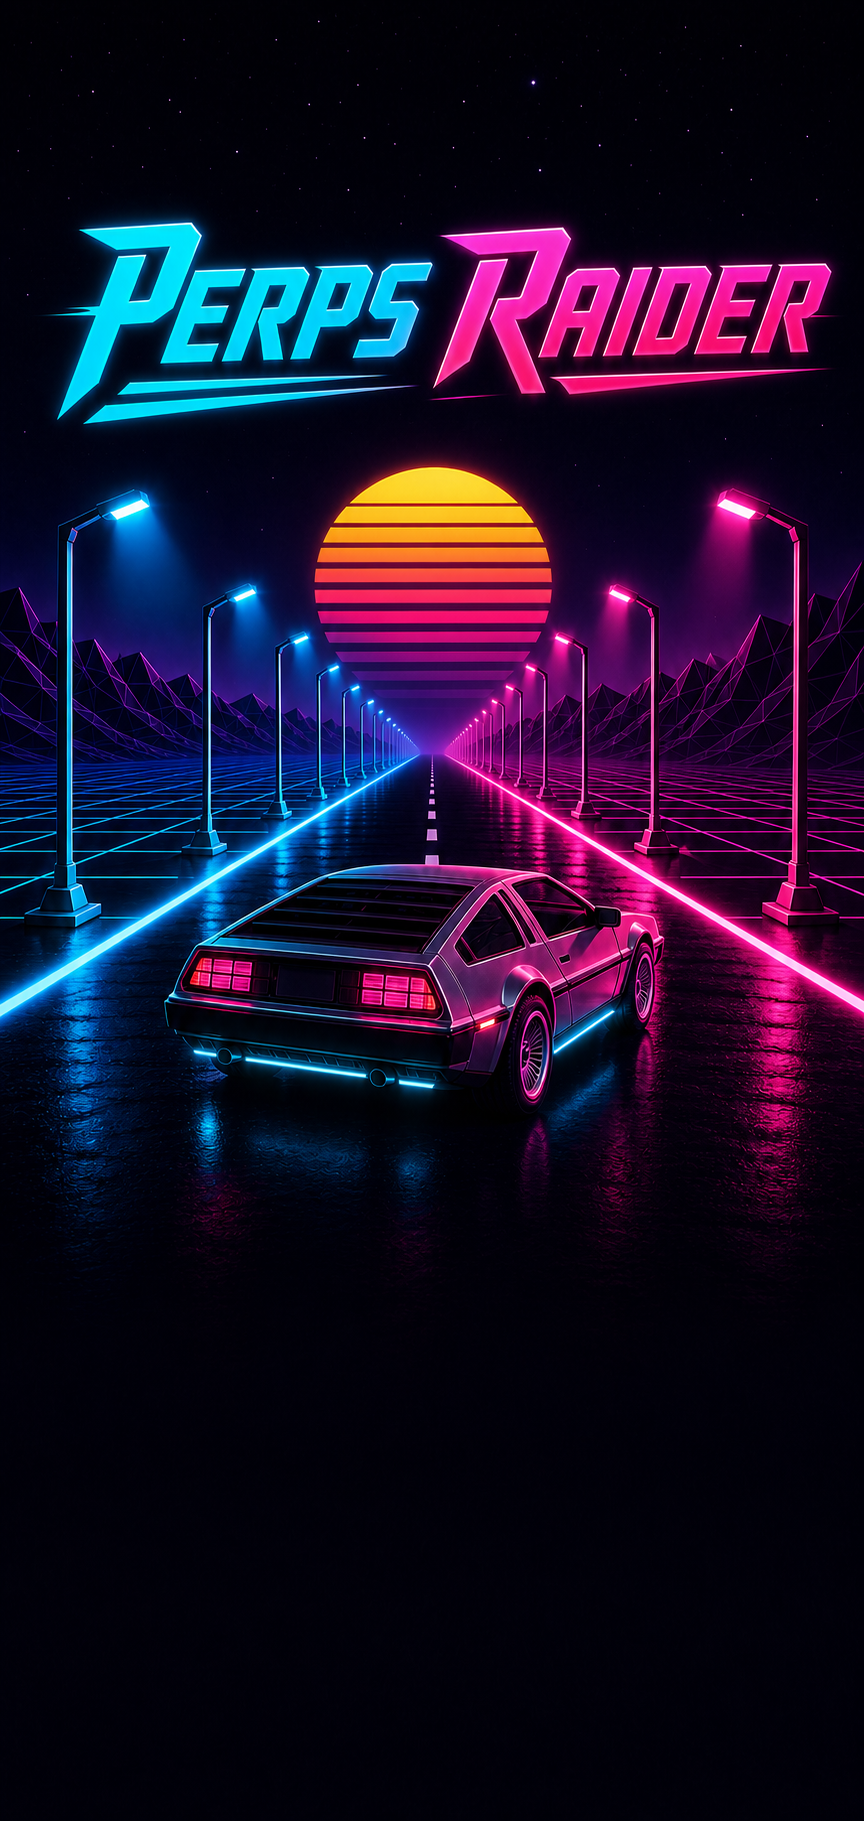
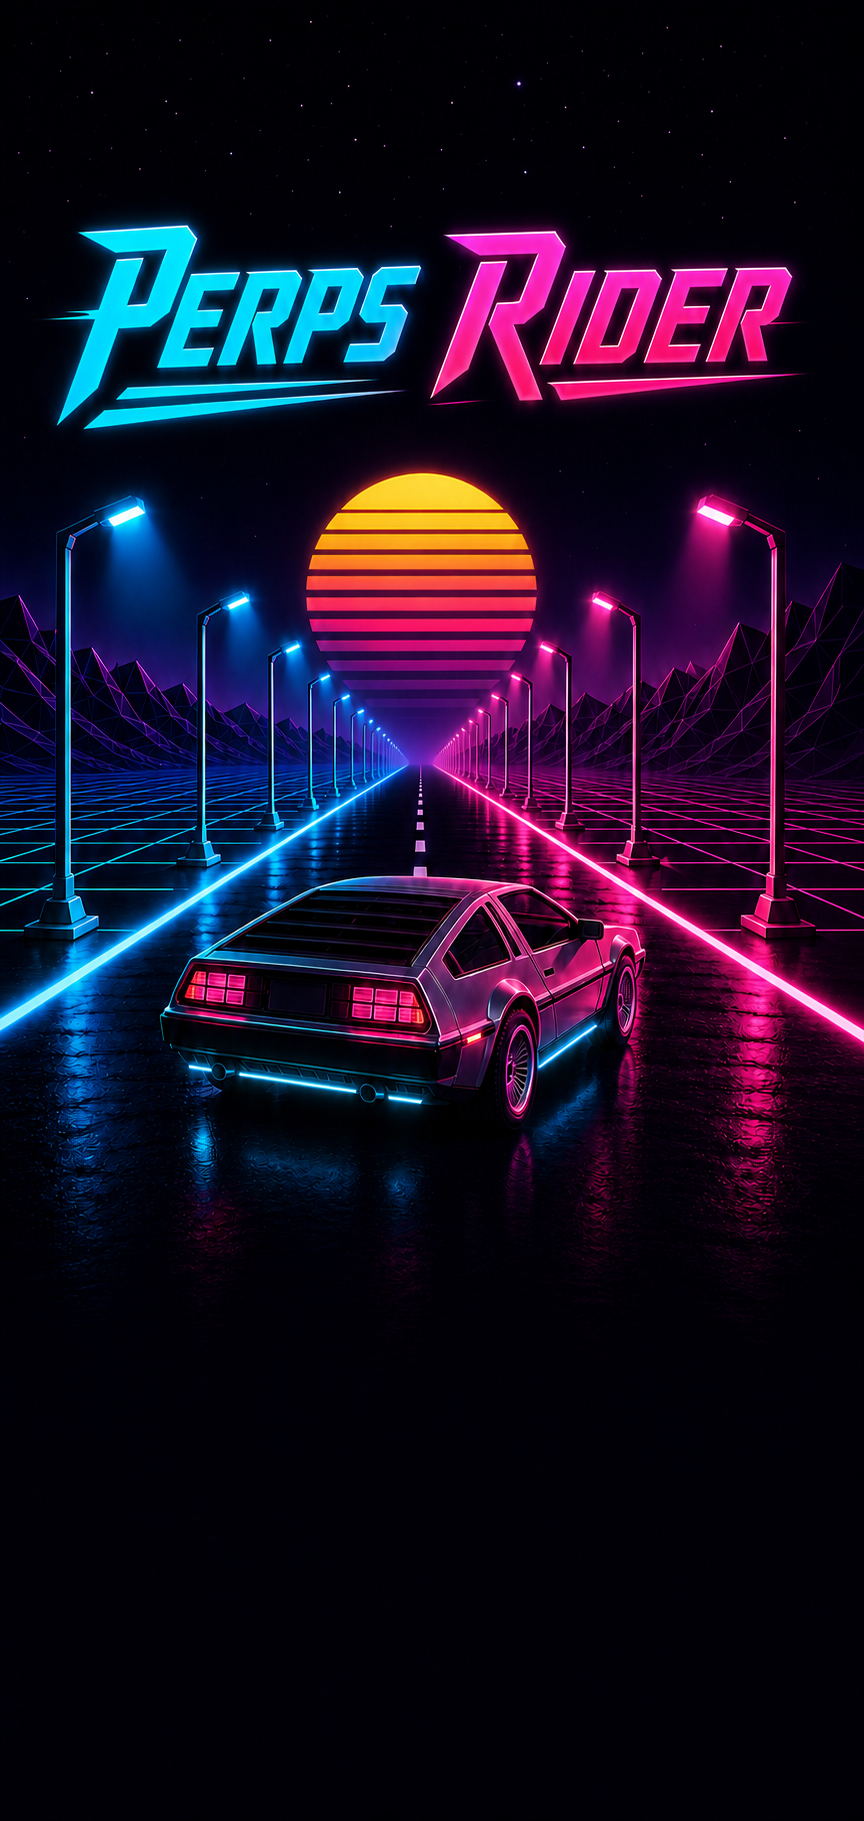
chore: rename game to Perps Rider

Changed region(s): [[0.0, 0.123, 1.0, 0.6766]]

diff --git a/redline3d/src/main.ts b/redline3d/src/main.ts
@@ -114,7 +114,7 @@ const ctx = createScene(canvas);
 // CPUs (Seeker: 8GB/8-core but Mali-G615); ?perf=low|high overrides for on-device tuning
 const gpu = gpuRendererString(ctx.renderer.getContext());
 const quality = detectQuality({ gpuRenderer: gpu, search: location.search });
-console.log(`Perps Raider quality: ${quality.tier} · bloom ${quality.bloom ? "×" + quality.bloomScale : "off"} · msaa ${quality.postSamples}× · dpr≤${quality.pixelRatioCap} · ${quality.frameCapFps ? quality.frameCapFps + "fps cap" : "uncapped"} · ${quality.detail}${gpu ? ` (${gpu})` : ""}`);
+console.log(`Perps Rider quality: ${quality.tier} · bloom ${quality.bloom ? "×" + quality.bloomScale : "off"} · msaa ${quality.postSamples}× · dpr≤${quality.pixelRatioCap} · ${quality.frameCapFps ? quality.frameCapFps + "fps cap" : "uncapped"} · ${quality.detail}${gpu ? ` (${gpu})` : ""}`);
 ctx.renderer.setPixelRatio(Math.min(quality.pixelRatioCap, window.devicePixelRatio || 1));
 const post = quality.bloom ? createPost(ctx.renderer, ctx.scene, ctx.camera, quality.bloomScale, quality.postSamples) : null;
 // Keep the renderer + bloom composer matched to the live viewport. Relying on the window
@@ -2213,7 +2213,7 @@ function showIdentityGate() {
           } catch { /* Highway will require a confirmed Railway save before entry. */ }
         }
         identity = {
-          name: accountDriverName ?? name ?? "raider_" + session.address().slice(-4).toLowerCase(),
+          name: accountDriverName ?? name ?? "rider_" + session.address().slice(-4).toLowerCase(),
           mode: "privy" as const,
         };
         saveIdentity(identity);
@@ -2281,7 +2281,7 @@ if (identity?.mode === "privy") {
     });
   }).catch(() => {});
 }
-console.log("Perps Raider render up");
+console.log("Perps Rider render up");
 
 // DEV-only hooks so browser verification can jump between modes without driving
 // across the lobby at Preview's throttled frame rate. Stripped from prod builds.

diff --git a/redline3d/src/ui/carpicker.ts b/redline3d/src/ui/carpicker.ts
@@ -520,7 +520,7 @@ export function createCarPicker(
         `<div class="gtitle"><span class="gtitle-name" style="color:var(--mut)">${displayName}</span><span class="grarity">${gems(0)}</span></div>` +
         `<div class="gcard-win"><div class="gcard-lock">${icon("lock", 30)}<span>LOCKED</span></div></div>` +
         `<div class="gcard-ab"><span class="gcard-ab-ic">${icon("lock")}</span><span class="gcard-ab-tx"><span class="gcard-ab-name" style="color:var(--mut)">Locked</span><span class="gcard-ab-desc">unlock to reveal</span></span></div>` +
-        `<div class="gfoot"><span class="gfoot-brand" style="color:var(--mut);text-shadow:none">PERPS RAIDER</span><span class="gfoot-no">${series}</span></div>`;
+        `<div class="gfoot"><span class="gfoot-brand" style="color:var(--mut);text-shadow:none">PERPS RIDER</span><span class="gfoot-no">${series}</span></div>`;
     } else {
       const p = c.power;
       const ability = p
@@ -531,7 +531,7 @@ export function createCarPicker(
         `<div class="gtitle"><span class="gtitle-name">${displayName}</span><span class="grarity">${gems(rarity)}</span></div>` +
         `<div class="gcard-win"><img class="gcard-art" alt="${displayName}"><div class="gcard-ld"><i></i></div></div>` +
         `<div class="gcard-ab">${ability}</div>` +
-        `<div class="gfoot"><span class="gfoot-brand">PERPS RAIDER</span><span class="gfoot-no">${series}</span></div>`;
+        `<div class="gfoot"><span class="gfoot-brand">PERPS RIDER</span><span class="gfoot-no">${series}</span></div>`;
       const holo = card.querySelector(".gcard-holo") as HTMLElement;
       card.addEventListener("pointermove", (e) => {
         const r = card.getBoundingClientRect();

diff --git a/redline3d/src/ui/identity.ts b/redline3d/src/ui/identity.ts
@@ -65,7 +65,7 @@ export function createIdentityGate(
   card.innerHTML =
     (opts.onDismiss ? `<button id="idclose" type="button" aria-label="Close"
       style="position:absolute;top:10px;right:10px;width:32px;height:32px;padding:0;display:grid;place-items:center;border-radius:8px;border:1px solid var(--line);background:rgba(12,10,26,.74);color:var(--mut);cursor:pointer;font-size:14px">✕</button>` : "") +
-    `<div class="num" style="font-size:26px;letter-spacing:.14em;color:var(--cyan);text-shadow:0 0 18px rgba(39,231,255,.5)">PERPS RAIDER</div>` +
+    `<div class="num" style="font-size:26px;letter-spacing:.14em;color:var(--cyan);text-shadow:0 0 18px rgba(39,231,255,.5)">PERPS RIDER</div>` +
     `<div class="lbl" style="letter-spacing:.08em;color:#aeb8dc">pick your driver name</div>` +
     `<input id="idname" maxlength="16" autocomplete="off" spellcheck="false" placeholder="e.g. liq_dodger"
       style="width:100%;box-sizing:border-box;padding:13px 14px;border-radius:11px;border:1px solid var(--line);background:rgba(10,8,22,.85);color:#eef1ff;font:700 17px 'Chakra Petch',ui-monospace,monospace;letter-spacing:.06em;text-align:center;outline:none"/>` +

diff --git a/redline3d/src/ui/access-wall.ts b/redline3d/src/ui/access-wall.ts
@@ -49,7 +49,7 @@ export function createAccessWall(
   card.className = "panel";
   card.style.cssText = "position:relative;width:min(400px,94vw);padding:26px 22px 22px;border-radius:16px;text-align:center;display:flex;flex-direction:column;gap:15px";
   card.innerHTML =
-    `<div class="num" style="font-size:28px;letter-spacing:.14em;color:var(--cyan);text-shadow:0 0 18px rgba(39,231,255,.5)">PERPS RAIDER</div>` +
+    `<div class="num" style="font-size:28px;letter-spacing:.14em;color:var(--cyan);text-shadow:0 0 18px rgba(39,231,255,.5)">PERPS RIDER</div>` +
     `<div class="lbl" style="letter-spacing:.08em;color:#aeb8dc">enter your access code to play</div>` +
     `<input id="awcode" maxlength="24" autocomplete="off" spellcheck="false" placeholder="access code"
       style="width:100%;box-sizing:border-box;padding:14px 15px;border-radius:11px;border:1px solid var(--line);background:rgba(10,8,22,.85);color:#eef1ff;font:700 18px 'Chakra Petch',ui-monospace,monospace;letter-spacing:.12em;text-align:center;outline:none"/>` +

diff --git a/redline3d/index.html b/redline3d/index.html
@@ -3,14 +3,14 @@
   <head>
     <meta charset="utf-8" />
     <meta name="viewport" content="width=device-width,initial-scale=1,maximum-scale=1,user-scalable=no,viewport-fit=cover" />
-    <title>Perps Raider</title>
+    <title>Perps Rider</title>
     <!-- installable PWA (Add to Home Screen / Install app on the Seeker) -->
     <link rel="manifest" href="/manifest.webmanifest" />
     <meta name="theme-color" content="#05030d" />
     <meta name="mobile-web-app-capable" content="yes" />
     <meta name="apple-mobile-web-app-capable" content="yes" />
     <meta name="apple-mobile-web-app-status-bar-style" content="black-translucent" />
-    <meta name="apple-mobile-web-app-title" content="Perps Raider" />
+    <meta name="apple-mobile-web-app-title" content="Perps Rider" />
     <link rel="apple-touch-icon" href="/icon-192.png" />
     <link rel="preconnect" href="https://fonts.googleapis.com" />
     <link rel="preconnect" href="https://fonts.gstatic.com" crossorigin />

diff --git a/redline3d/onchain.html b/redline3d/onchain.html
@@ -3,7 +3,7 @@
   <head>
     <meta charset="UTF-8" />
     <meta name="viewport" content="width=device-width, initial-scale=1.0" />
-    <title>Perps Raider — on-chain (devnet)</title>
+    <title>Perps Rider — on-chain (devnet)</title>
     <style>
       body { font-family: ui-monospace, monospace; background: #0a0a12; color: #e6e6f0; margin: 0; padding: 16px; }
       .row { margin: 8px 0; } button { font: inherit; padding: 8px 14px; margin-right: 8px; cursor: pointer; }
@@ -12,7 +12,7 @@
     </style>
   </head>
   <body>
-    <h2>Perps Raider — on-chain round (devnet) <span class="dim">BTC</span></h2>
+    <h2>Perps Rider — on-chain round (devnet) <span class="dim">BTC</span></h2>
     <div class="row dim">wallet: <code id="addr">…</code> · play balance: <code id="bal">…</code> USDC</div>
     <div class="row">
       dir <select id="dir"><option value="1">LONG</option><option value="-1">SHORT</option></select>

diff --git a/redline3d/src/ui/access-wall.test.ts b/redline3d/src/ui/access-wall.test.ts
@@ -26,7 +26,7 @@ const message = (root: HTMLElement) => root.querySelector("#awmsg") as HTMLEleme
 describe("access wall — only a code field, nothing else", () => {
   test("shows the title, one code field and UNLOCK — never guest / sign-in / name", () => {
     const { wall } = mount("invalid");
-    expect(wall.el.textContent).toContain("PERPS RAIDER");
+    expect(wall.el.textContent).toContain("PERPS RIDER");
     expect(codeField(wall.el)).toBeTruthy();
     expect(unlockBtn(wall.el).textContent).toContain("UNLOCK");
     // none of the identity gate's doors may leak onto the wall

diff --git a/server/src/auth/wallet-binding.test.ts b/server/src/auth/wallet-binding.test.ts
@@ -10,7 +10,7 @@ describe("createWalletBinding", () => {
     const wallet = bs58.encode(publicKey);
     const binding = createWalletBinding({ secret: "b".repeat(32), now: () => 1000 });
     const challenge = binding.createChallenge({ userId: "user-1", wallet });
-    expect(challenge.message).toMatch(/^Perps Raider wallet binding\n/);
+    expect(challenge.message).toMatch(/^Perps Rider wallet binding\n/);
     const signatureBase58 = bs58.encode(
       await ed.signAsync(new TextEncoder().encode(challenge.message), secretKey),
     );

diff --git a/sim/highlev-sim.ts b/sim/highlev-sim.ts
@@ -1,5 +1,5 @@
 // =============================================================================
-// House-economics Monte-Carlo for the leveraged arcade-perp game (Perps Raider).
+// House-economics Monte-Carlo for the leveraged arcade-perp game (Perps Rider).
 //
 // Faithful to packages/engine: imports equityOf + payoutOf DIRECTLY and replicates
 // ONLY the finalize outcome->equity mapping (liq=0, cap=CAP, cashout=equityOf) and

diff --git a/redline3d/src/core/mobile-wallet-port.ts b/redline3d/src/core/mobile-wallet-port.ts
@@ -22,7 +22,7 @@ export function createMobileWalletPort(): SolanaWalletPort {
   const adapter = new SolanaMobileWalletAdapter({
     addressSelector: createDefaultAddressSelector(),
     appIdentity: {
-      name: "Perps Raider",
+      name: "Perps Rider",
       uri: globalThis.location?.origin ?? "http://localhost",
       icon: "/icon-192.png",
     },

diff --git a/server/src/auth/wallet-binding.ts b/server/src/auth/wallet-binding.ts
@@ -38,7 +38,7 @@ export function createWalletBinding(deps: {
     exp: number;
   }) =>
     [
-      "Perps Raider wallet binding",
+      "Perps Rider wallet binding",
       `Wallet: ${p.wallet}`,
       `Session: ${p.userId}`,
       `Nonce: ${p.nonce}`,

diff --git a/redline3d/capacitor.config.ts b/redline3d/capacitor.config.ts
@@ -2,7 +2,7 @@ import type { CapacitorConfig } from '@capacitor/cli';
 
 const config: CapacitorConfig = {
   appId: 'xyz.redline.game',
-  appName: 'Perps Raider',
+  appName: 'Perps Rider',
   webDir: 'dist'
 };
 
